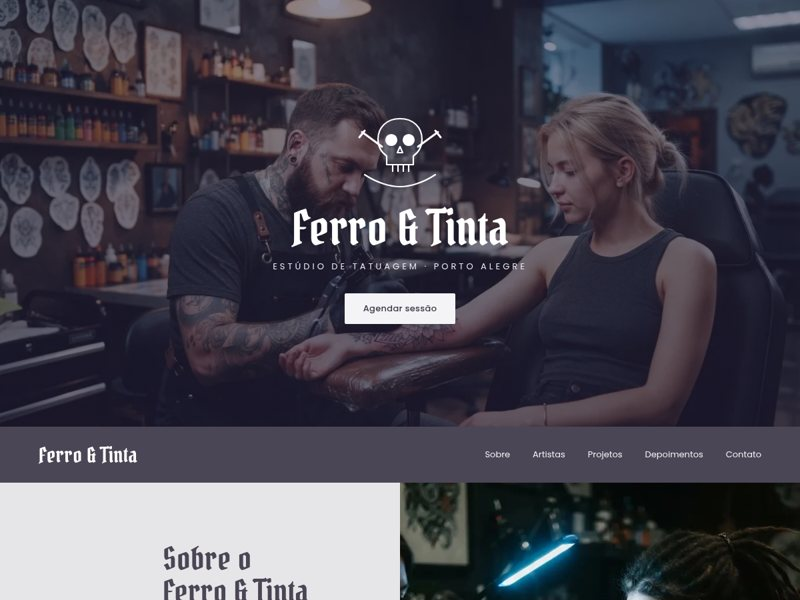
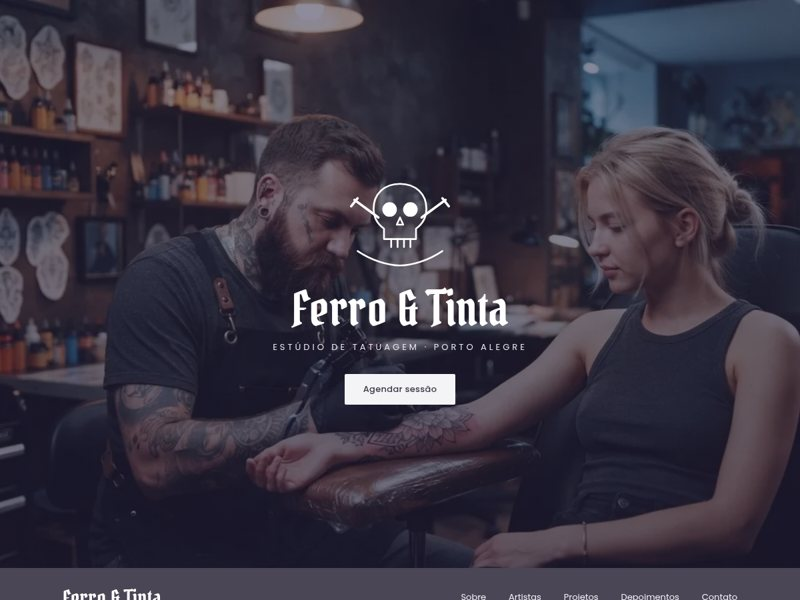
ferro-e-tinta: proporcoes do pin (alturas, emblema, nav, mosaico, secao de material, galeria no rodape), depoimento com foto visivel

diff --git a/src/components/models/FerroTintaFold.tsx b/src/components/models/FerroTintaFold.tsx
@@ -10,6 +10,7 @@ const ARTISTS = [
 ];
 const SKILLS = [["Corpo fechado", 90], ["Braços", 85], ["Pernas", 75], ["Fine line", 90]] as const;
 const WORKS = ["/ft-w1.webp", "/ft-w2.webp", "/ft-w3.webp", "/ft-w4.webp"];
+const GEAR: [string, string][] = [["Rotativa", "M22 44l16-26 4 3-16 26zM40 16l5 3"], ["Pigmento", "M32 18c6 8 10 12 10 18a10 10 0 0 1-20 0c0-6 4-10 10-18z"], ["Agulha", "M20 44l24-24M40 20l4 4M18 46l-2 4 4-2"], ["Estéril", "M32 18v28M18 32h28M22 22l20 20M42 22 22 42"], ["Cicatriza", "M32 46s-12-8-12-16a6 6 0 0 1 12-2 6 6 0 0 1 12 2c0 8-12 16-12 16z"], ["Desenho", "M20 44c4-14 10-20 24-24-4 14-10 20-24 24zM26 38l10-10"]];
 const FACTS = [["365", "Cafés por mês"], ["214", "Depoimentos"], ["623", "Horas de música"], ["182", "Clientes felizes"]];
 const REVIEWS = [
   { q: "Cheguei com três referências confusas e o Dante transformou num blackwork que parece que sempre foi meu. Três sessões e zero arrependimento.", n: "Igor M.", r: "Braço fechado" },
@@ -19,7 +20,7 @@ const REVIEWS = [
 const STYLES = ["Blackwork", "Fine line", "Old school", "Colorida", "Escrita"];
 const ZONES = ["Antebraço", "Braço", "Costas", "Perna", "Costela", "Outra"];
 const Skull = () => (
-  <svg width="150" height="150" viewBox="0 0 150 150" fill="none" stroke="#fff" strokeWidth="2.2" strokeLinecap="round" strokeLinejoin="round" aria-hidden>
+  <svg className="emb" width="150" height="150" viewBox="0 0 150 150" fill="none" stroke="#fff" strokeWidth="2.2" strokeLinecap="round" strokeLinejoin="round" aria-hidden>
     <path d="M75 34c-20 0-33 13-33 31 0 12 6 20 13 25v13h40V90c7-5 13-13 13-25 0-18-13-31-33-31z" fill="rgba(255,255,255,.1)" />
     <circle cx="62" cy="66" r="8" fill="#fff" /><circle cx="88" cy="66" r="8" fill="#fff" />
     <path d="M75 76l-4 9h8zM64 103v10M72 103v10M80 103v10M88 103v10" />
@@ -56,23 +57,23 @@ export function FerroTintaFold({ client }: { client?: { name?: string; whatsapp?
         .ft *{box-sizing:border-box}
         .ft a,.ft button{font-family:inherit}
         .ft h1,.ft h2,.ft h3,.ft .ttl{font-family:'Pirata One',serif;font-weight:400;letter-spacing:.5px;text-wrap:balance;margin:0}
-        .ft .wrap{max-width:1140px;margin:0 auto;padding:0 28px}
+        .ft .wrap{max-width:min(1280px,89vw);margin:0 auto;padding:0 28px}
         .ft .tint{position:absolute;inset:0;background:linear-gradient(180deg,rgba(38,32,66,.5),rgba(34,28,58,.62))}
-        .ft .hero{position:relative;min-height:640px;display:flex;flex-direction:column;align-items:center;justify-content:center;text-align:center;background-color:#2a2540}
+        .ft .hero{position:relative;min-height:min(71vw,1020px);display:flex;flex-direction:column;align-items:center;justify-content:center;text-align:center;background-color:#2a2540}
         .ft .hero .inn{position:relative;z-index:2;display:flex;flex-direction:column;align-items:center;gap:6px;padding:80px 24px 90px}
-        .ft .hero h1{font-size:clamp(46px,6vw,76px);line-height:1;color:#fff;margin-top:6px}
+        .ft .emb{width:clamp(110px,15vw,230px);height:auto}.ft .hero h1{font-size:clamp(46px,6vw,76px);line-height:1;color:#fff;margin-top:6px}
         .ft .hero .tag{font-size:13px;letter-spacing:4px;color:#e8e6ef;text-transform:uppercase;margin:6px 0 24px}
         .ft .btn{background:${WH};color:${INK};border:0;border-radius:2px;padding:0 28px;min-height:46px;font-weight:500;font-size:13px;letter-spacing:.3px;cursor:pointer;display:inline-flex;align-items:center;justify-content:center;text-decoration:none}
         .ft .btn:hover{background:#fff}
         .ft .btn.dk{background:${SL};color:#fff}.ft .btn.dk:hover{background:${EMD}}
         .ft .bar{background:${SL};position:sticky;top:0;z-index:30}
-        .ft .barin{display:flex;align-items:center;justify-content:space-between;height:84px;max-width:1140px;margin:0 auto;padding:0 28px}
+        .ft .barin{display:flex;align-items:center;justify-content:space-between;height:clamp(84px,7.4vw,120px);max-width:min(1280px,89vw);margin:0 auto;padding:0 28px}
         .ft .logo{font-family:'Pirata One',serif;font-size:32px;color:#fff;letter-spacing:.5px;white-space:nowrap}
         .ft .links{display:flex;gap:34px;font-size:13px;font-weight:400}
         .ft .links a{color:#f2f1f6;cursor:pointer}.ft .links a:hover{color:#fff;text-decoration:underline}
         .ft .burger{display:none;background:none;border:0;width:44px;height:44px;cursor:pointer}
         .ft .about{display:grid;grid-template-columns:1fr 1fr;background:${LG}}
-        .ft .abl{padding:90px 56px 90px 0;display:flex;justify-content:flex-end}
+        .ft .abl{padding:90px 56px 90px 0;align-items:center;display:flex;justify-content:flex-end}
         .ft .abl>div{max-width:300px;width:100%}
         .ft h2{font-size:clamp(36px,4vw,52px);line-height:1.02;color:${SL}}
         .ft .sub{font-size:14px;line-height:1.85;color:${MUT};margin:22px 0 0}
@@ -80,22 +81,22 @@ export function FerroTintaFold({ client }: { client?: { name?: string; whatsapp?
         .ft .sk{display:flex;justify-content:space-between;font-size:11px;font-weight:500;letter-spacing:.3px;text-transform:uppercase;color:${INK}}
         .ft .sk span{font-weight:400;color:${MUT}}
         .ft .trk{height:9px;background:#fff;margin-top:7px}.ft .trk i{display:block;height:100%;background:${SL}}
-        .ft .abr{background-color:#2a2540;min-height:640px}
-        .ft .band{position:relative;min-height:560px;display:flex;align-items:center;justify-content:center;text-align:center;background-color:#2a2540}
+        .ft .abr{background-color:#2a2540;min-height:min(71vw,1020px)}
+        .ft .band{position:relative;min-height:min(71vw,1020px);display:flex;align-items:center;justify-content:center;text-align:center;background-color:#2a2540}
         .ft .band .inn{position:relative;z-index:2;max-width:560px;padding:0 24px;display:flex;flex-direction:column;align-items:center;gap:26px}
         .ft .band h2{color:#fff;font-size:clamp(44px,5.4vw,68px);line-height:1}
-        .ft .sec{padding:96px 0}
+        .ft .sec{padding:clamp(80px,8vw,130px) 0}
         .ft .intro{font-size:14px;line-height:1.85;color:${MUT};max-width:1000px}
         .ft .head{margin-bottom:34px}
         .ft .head small{display:block;font-size:11px;font-weight:500;letter-spacing:1px;text-transform:uppercase;color:${MUT};margin-top:8px}
-        .ft .agrid{display:grid;grid-template-columns:repeat(4,1fr);gap:16px}
+        .ft .agrid{display:grid;grid-template-columns:repeat(4,1fr);gap:16px}.ft .gear{display:flex;justify-content:space-between;gap:24px;margin-top:44px;flex-wrap:wrap}.ft .gear div{display:flex;flex-direction:column;align-items:center;gap:8px;font-size:11px;font-weight:500;letter-spacing:.8px;text-transform:uppercase;color:#3a3744;min-width:96px;text-align:center}.ft .gear svg{display:block}
         .ft .acard{position:relative;overflow:hidden;background:${SL}}
         .ft .acard img{width:100%;aspect-ratio:3/4;object-fit:cover;display:block;filter:saturate(.8)}
         .ft .acard:after{content:'';position:absolute;inset:0;background:linear-gradient(180deg,rgba(40,34,70,.1),rgba(34,28,58,.78))}
         .ft .acard .lb{position:absolute;left:20px;bottom:18px;z-index:2;color:#fff}
         .ft .acard .lb b{font-family:'Pirata One',serif;font-weight:400;font-size:28px;display:block;line-height:1}
         .ft .acard .lb small{font-size:11px;display:block;margin-top:6px;color:#e8e6ef}
-        .ft .feat{position:relative;margin-top:80px;min-height:320px;display:flex;align-items:center;justify-content:center;text-align:center;background-color:#2a2540}
+        .ft .feat{position:relative;margin-top:80px;min-height:min(37vw,540px);display:flex;align-items:center;justify-content:center;text-align:center;background-color:#2a2540}
         .ft .feat .inn{position:relative;z-index:2;color:#fff;padding:30px}
         .ft .feat h2{color:#fff;font-size:clamp(42px,5vw,60px);line-height:1}
         .ft .feat b{font-family:'Pirata One',serif;font-weight:400;font-size:28px;display:block;margin-top:18px}
@@ -106,7 +107,7 @@ export function FerroTintaFold({ client }: { client?: { name?: string; whatsapp?
         .ft .two{display:grid;grid-template-columns:1fr 1.6fr;gap:56px;align-items:center}
         .ft .strip{display:grid;grid-template-columns:repeat(4,1fr)}
         .ft .strip img{width:100%;aspect-ratio:1;object-fit:cover;display:block;filter:saturate(.8) brightness(.95)}
-        .ft .news{display:grid;grid-template-columns:1fr 1.3fr;gap:56px;align-items:center;padding-top:56px;padding-bottom:56px}
+        .ft .news{display:grid;grid-template-columns:1fr 1.3fr;gap:56px;align-items:center;padding-top:clamp(56px,5vw,84px);padding-bottom:clamp(56px,5vw,84px)}
         .ft .news h2{font-size:clamp(30px,3.4vw,42px)}
         .ft .nf{display:flex;gap:12px}
         .ft .nf button{background:${WH};color:${INK};border:0;border-radius:2px;min-height:46px;padding:0 26px;font-size:13px;font-weight:500;cursor:pointer;white-space:nowrap}
@@ -114,15 +115,15 @@ export function FerroTintaFold({ client }: { client?: { name?: string; whatsapp?
         .ft .facts{display:grid;grid-template-columns:repeat(4,1fr);gap:20px;text-align:center;margin-top:44px}
         .ft .facts b{font-family:Poppins,sans-serif;font-weight:500;font-size:clamp(40px,5vw,60px);color:${SL};display:block;line-height:1}
         .ft .facts span{font-size:11px;color:${MUT};letter-spacing:.5px;display:block;margin-top:12px;text-transform:uppercase}
-        .ft .mos{display:grid;grid-template-columns:1fr 1fr;grid-template-rows:300px 300px}
+        .ft .mos{display:grid;grid-template-columns:1fr 1fr;grid-template-rows:min(33vw,480px) min(33vw,480px)}
         .ft .mos>div{position:relative;display:flex;align-items:flex-end;padding:30px 36px;color:#fff;background-size:cover;background-position:center}
         .ft .mos>div:after{content:'';position:absolute;inset:0;background:linear-gradient(180deg,rgba(38,32,66,.05),rgba(34,28,58,.7))}
         .ft .mos>div>*{position:relative;z-index:2}
         .ft .mos .tall{grid-row:1/3;grid-column:2;cursor:pointer}
         .ft .mos h3{font-size:28px;line-height:1}
         .ft .mos p{font-size:12px;margin:6px 0 0;color:#e8e6ef}
-        .ft .tst{position:relative;background-color:#2a2540;padding:110px 0;color:#fff}
-        .ft .tst .tint{background:rgba(34,28,58,.82)}
+        .ft .tst{position:relative;background-color:#2a2540;padding:0;min-height:min(71vw,1020px);display:flex;align-items:center;color:#fff}.ft .tst>.wrap{width:100%}
+        .ft .tst .tint{background:linear-gradient(180deg,rgba(34,28,58,.55),rgba(34,28,58,.72))}
         .ft .tst .wrap{position:relative;z-index:2}
         .ft .tst h2{color:#fff}
         .ft .tq{margin:56px auto 0;max-width:640px;text-align:center}
@@ -133,9 +134,9 @@ export function FerroTintaFold({ client }: { client?: { name?: string; whatsapp?
         .ft .tnav button{width:44px;height:44px;border-radius:50%;border:1px solid rgba(255,255,255,.5);background:transparent;color:#fff;cursor:pointer;font-size:16px}
         .ft .tnav button:hover{background:rgba(255,255,255,.14)}
         .ft .contact{display:grid;grid-template-columns:1fr 1fr;background:${LG}}
-        .ft .cl{background-color:#2a2540;min-height:620px;position:relative}
+        .ft .cl{background-color:#2a2540;min-height:min(71vw,1020px);position:relative}
         .ft .cl:after{content:'';position:absolute;inset:0;background:rgba(38,32,66,.35)}
-        .ft .cr{padding:88px 56px;max-width:520px}
+        .ft .cr{padding:88px 56px;max-width:520px;align-self:center}
         .ft .cr small{font-size:11px;letter-spacing:1px;text-transform:uppercase;color:${MUT};display:block;margin:8px 0 28px}
         .ft .fi{width:100%;border:0;background:#fff;min-height:44px;padding:0 14px;font-size:13px;font-family:inherit;margin-bottom:12px;border-radius:2px;color:${INK}}
         .ft textarea.fi{min-height:108px;padding:12px 14px;resize:vertical}
@@ -144,7 +145,7 @@ export function FerroTintaFold({ client }: { client?: { name?: string; whatsapp?
         .ft .foot{background:${SL};color:#d8d6e0;padding:64px 0 28px;font-size:12px}
         .ft .footg{display:grid;grid-template-columns:1.2fr 1fr 1fr;gap:40px}
         .ft .foot h4{font-family:'Pirata One',serif;font-weight:400;font-size:26px;color:#fff;margin:0 0 14px}
-        .ft .foot p,.ft .foot li{line-height:1.9;margin:0}.ft .foot ul{list-style:none;padding:0;margin:0}
+        .ft .fgal{display:grid;grid-template-columns:repeat(3,1fr);gap:4px;max-width:240px}.ft .fgal img{width:100%;aspect-ratio:1;object-fit:cover;display:block}.ft .foot p,.ft .foot li{line-height:1.9;margin:0}.ft .foot ul{list-style:none;padding:0;margin:0}
         .ft .copy{border-top:1px solid rgba(255,255,255,.2);margin-top:44px;padding-top:22px;text-align:center;font-size:11px;color:#b9b6c4}
         .ft .ov{position:fixed;inset:0;background:rgba(10,6,4,.72);z-index:120;display:flex;align-items:center;justify-content:center;padding:16px}
         .ft .mdl{background:${PN};border:1px solid ${LN};width:100%;max-width:520px;max-height:88vh;overflow:auto;padding:32px;position:relative;color:${TX}}
@@ -165,13 +166,13 @@ export function FerroTintaFold({ client }: { client?: { name?: string; whatsapp?
           .ft .links{display:none}.ft .burger{display:block}
           .ft .about,.ft .contact,.ft .two,.ft .news{grid-template-columns:1fr}
           .ft .abl{padding:64px 28px;justify-content:flex-start}.ft .abl>div{max-width:none}
-          .ft .abr{min-height:420px}
+          .ft .abr{min-height:420px}.ft .hero,.ft .band,.ft .tst{min-height:520px}.ft .feat{min-height:260px}.ft .gear{justify-content:center}
           .ft .agrid{grid-template-columns:1fr 1fr}
           .ft .strip{grid-template-columns:1fr 1fr}
           .ft .facts{grid-template-columns:1fr 1fr;row-gap:34px}
           .ft .mos{grid-template-columns:1fr;grid-template-rows:240px 240px 360px}
           .ft .mos .tall{grid-row:auto;grid-column:auto}
-          .ft .cl{min-height:380px}.ft .cr{padding:64px 28px;max-width:none}
+          .ft .cl{min-height:380px}.ft .mos{grid-template-rows:240px 240px 360px}.ft .cr{padding:64px 28px;max-width:none}
           .ft .sec{padding:68px 0}.ft .news{gap:22px;padding-top:44px;padding-bottom:44px}
           .ft .footg{grid-template-columns:1fr;gap:28px}
           .ft .hero{min-height:560px}
@@ -277,6 +278,21 @@ export function FerroTintaFold({ client }: { client?: { name?: string; whatsapp?
         <div style={{ backgroundImage: 'url("/ft-w6.webp")' }}><div><h3>Aprenda sobre cuidados</h3><p>Cicatrização em 30 dias</p></div></div>
       </section>
 
+      <section className="sec" style={{ background: LG }}>
+        <div className="wrap">
+          <div className="two" style={{ alignItems: "start" }}>
+            <div><h2>Nosso material</h2><small style={{ display: "block", fontSize: 11, letterSpacing: 1, textTransform: "uppercase", color: MUT, marginTop: 8 }}>O que a gente usa</small></div>
+            <p className="sub" style={{ margin: 0 }}>Máquinas rotativas, pigmentos veganos e descartáveis lacrados na frente do cliente. A mesma bancada para cada sessão, do desenho ao curativo.</p>
+          </div>
+          <div className="gear">{GEAR.map(([t, d]) => (
+            <div key={t}>
+              <svg width="64" height="64" viewBox="0 0 64 64" fill="none" stroke="#3a3744" strokeWidth="2" strokeLinecap="round" strokeLinejoin="round" aria-hidden><circle cx="32" cy="32" r="29" /><path d={d} /></svg>
+              {t}
+            </div>
+          ))}</div>
+        </div>
+      </section>
+
       <section className="tst" id="depoimentos" style={{ background: 'url("/ft-lamp.webp") center/cover no-repeat' }}>
         <div className="tint" />
         <div className="wrap">
@@ -311,7 +327,7 @@ export function FerroTintaFold({ client }: { client?: { name?: string; whatsapp?
         <div className="wrap footg">
           <div><h4>{brand}</h4><p>Estúdio autoral de tatuagem em {city}. Desenho exclusivo, biossegurança total e acompanhamento de cicatrização.</p></div>
           <div><h4>Links</h4><ul>{["Sobre", "Artistas", "Projetos", "Depoimentos", "Contato"].map((t, i) => <li key={t}><a style={{ color: "inherit", cursor: "pointer" }} onClick={() => go(["sobre", "artistas", "projetos", "depoimentos", "contato"][i]!)}>{t}</a></li>)}</ul></div>
-          <div><h4>Agenda</h4><p>Orçamento no mesmo dia<br />Sinal de 30% pra agendar<br />Material 100% descartável</p></div>
+          <div><h4>Galeria</h4><div className="fgal">{["/ft-w1.webp", "/ft-w2.webp", "/ft-w3.webp", "/ft-w4.webp", "/ft-w5.webp", "/ft-w6.webp"].map((k) => <img key={k} src={k} alt="" />)}</div></div>
         </div>
         <div className="wrap copy">{brand} · +18 com documento · Fotos ilustrativas · Site de demonstração SemSite</div>
       </footer>
